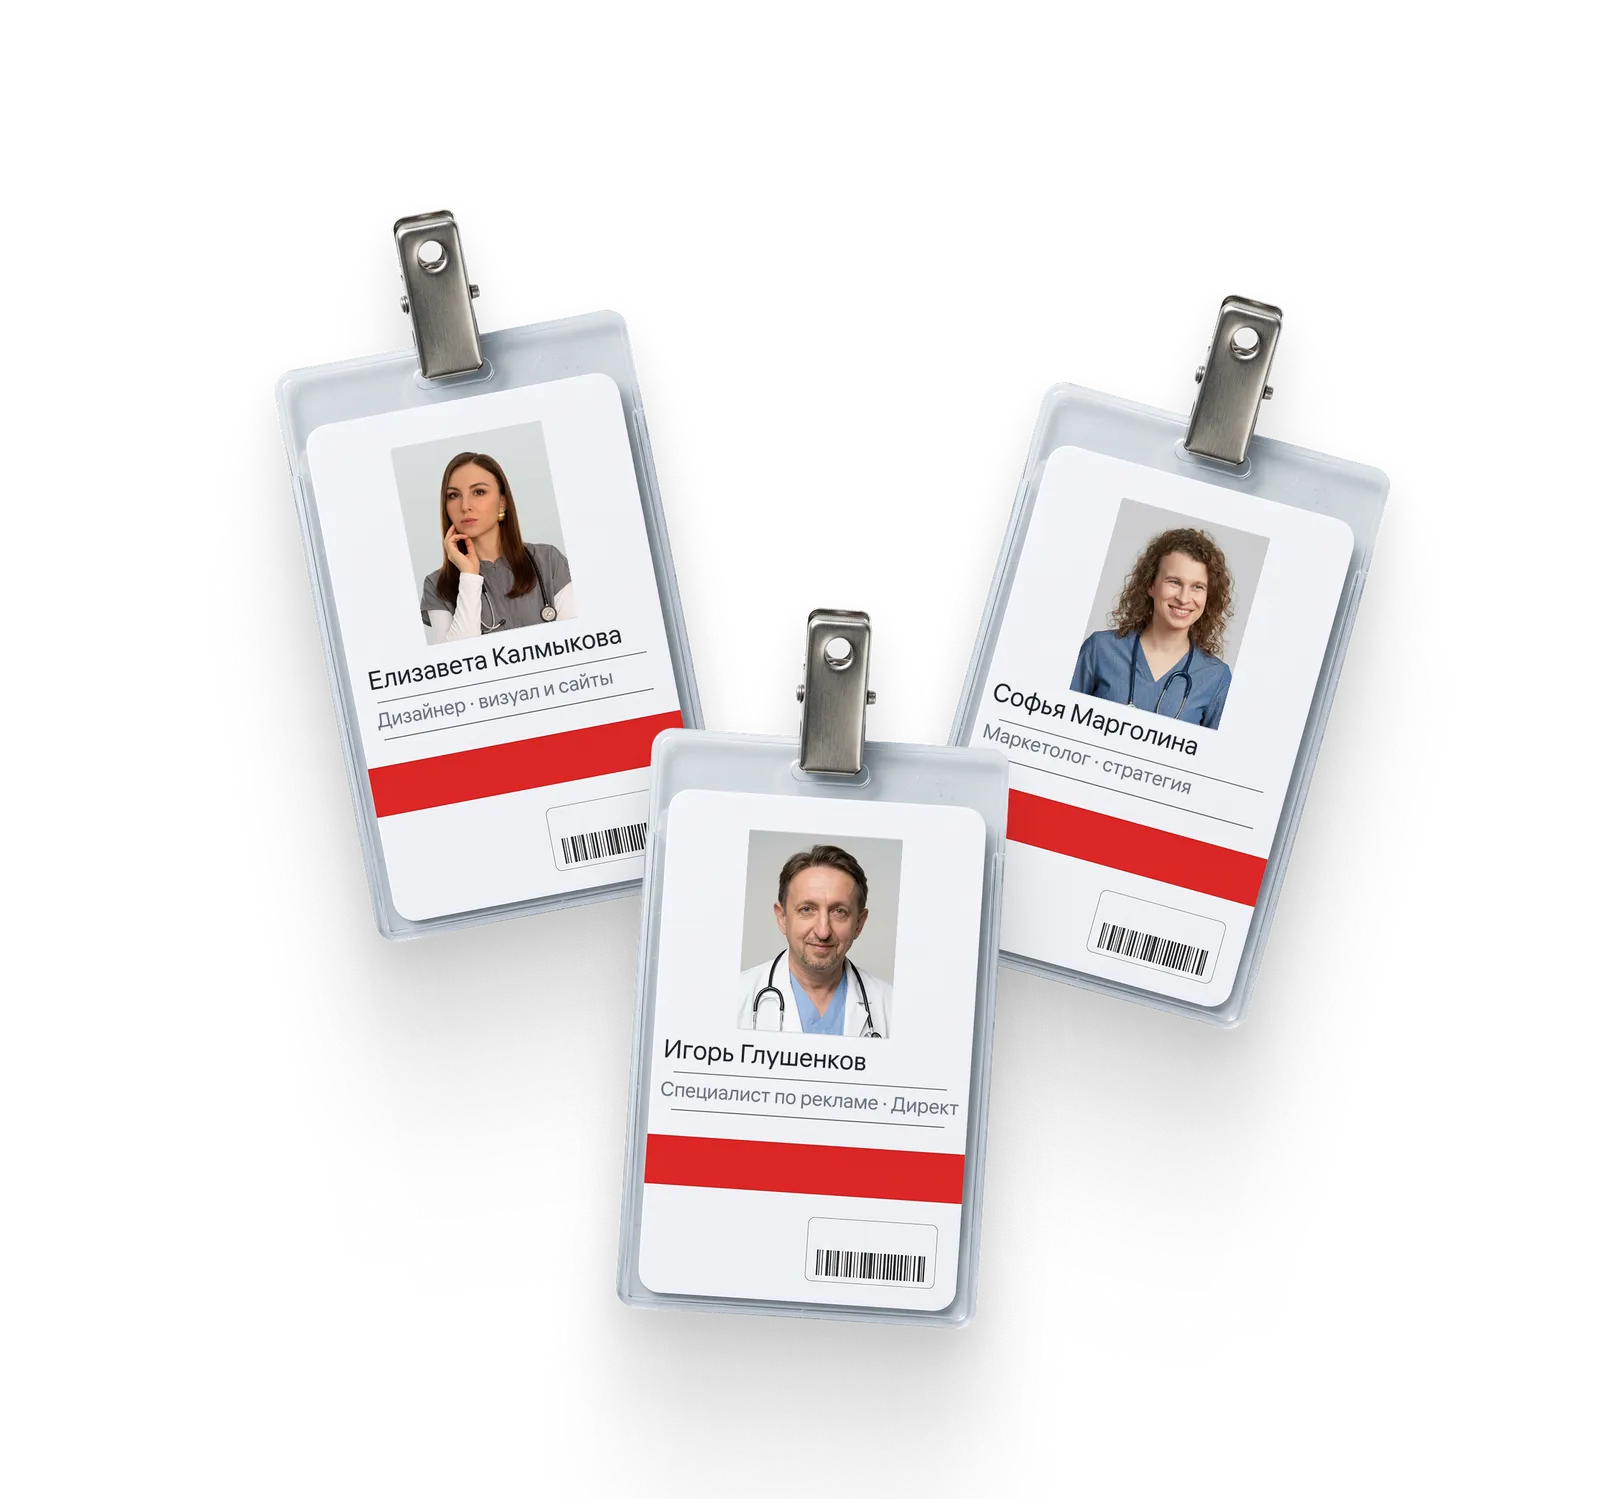
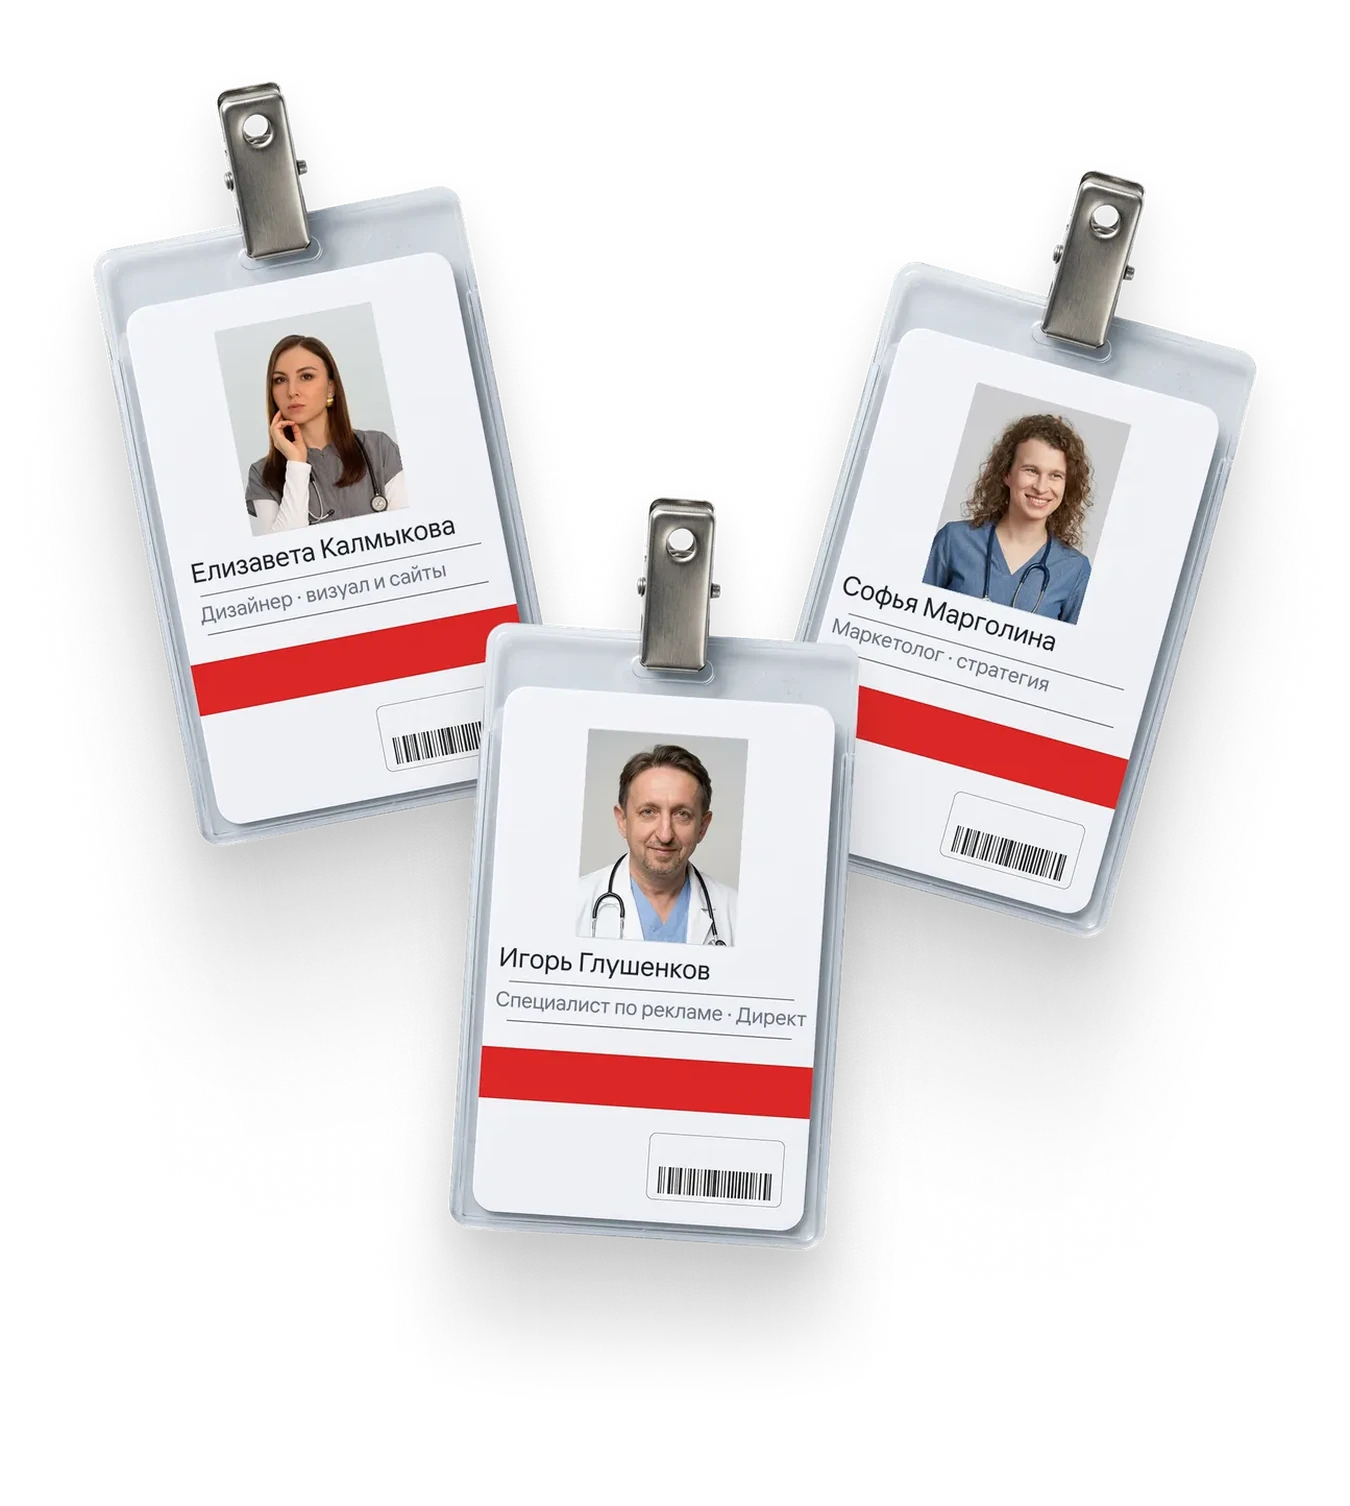
О нас: блок по макету — размер бейджей, тень без обрезки, адаптив
- team-pc.webp перевыпущен по рамке макета 900×1004 (x 940–1840, y 40–1044),
  без лишних прозрачных полей, тень плавно затухает до нуля
- team-mob.webp: убран жёсткий край тени снизу
- сетка 820:900 + зазор 40, вертикальные позиции как в макете (текст на y=233)
- планшет: убран конфликт overflow visible/hidden, картинка не режется
- мобайл: overflow-x:clip вместо hidden, удалены мёртвые правила .badge--*
- метка «/02 · О нас» — белая плашка, второй абзац тёмным, как в макете

Claude-Session: https://claude.ai/code/session_01Nx66HRpNGxERtiiEkZ98ma

Changed region(s): [[0.0622, 0.0307, 0.9333, 0.9513]]

diff --git a/styles.css b/styles.css
@@ -340,41 +340,27 @@ hr.rule{height:0;margin:0;border:0;border-top:1px solid var(--line);}
 /* ==========================================================================
    03. Кто мы
    ========================================================================== */
-/* Секция повторяет макет один в один (узел 192:38, 1920×1044):
-   текст 820 от левого поля, картинка 968 на позиции 901, то есть её
-   правый край уходит в поле страницы. Доли от содержимого 1760:
-   821/1760 = 46.65 % и 968/1760 = 55 % — в сумме больше ста, и это
-   нормально: картинка намеренно заходит за правое поле.
-   overflow здесь НЕ ставим: у файла снизу всего 37 прозрачных пикселей,
-   любая обрезка съедает тень. */
-.kto{display:grid;grid-template-columns:46.65% 1fr;gap:0;align-items:center;}
-#o-nas{padding-top:var(--section-y);padding-bottom:var(--section-y);}
-.kto__text{display:flex;flex-direction:column;align-items:flex-start;gap:28px;}
-.kto__text .h2{margin:4px 0 0;}
+/* Макет: узел 192:38, секция 1920×1044.
+   Текст: x 80–900 (820), y 233–804.
+   Картинка team-pc.webp вырезана из макета ровно по прямоугольнику
+   x 940–1840, y 40–1044 (900×1004) вместе с тенью и прозрачным полем,
+   поэтому её правый край совпадает с правым полем страницы и вылезать
+   ей никуда не нужно, а тень внутри файла затухает до нуля — резать нечего.
+   Колонки 820 : 900 с зазором 40 — пропорция держится на любой ширине.
+   Текст по центру картинки со сдвигом вверх на 23,5 px (233 вместо 256,5):
+   +47 px к нижнему отступу (5.7 % от колонки 820).
+   Отступы текста сверху/снизу = ¾ поля секции: на 1920 они ни на что
+   не влияют (текст по центру), а когда текст выше картинки (1024–1440),
+   не дают ему прилипнуть к соседним секциям. */
+#o-nas{padding-top:calc(var(--section-y) * .25);padding-bottom:0;}
+.kto{display:grid;grid-template-columns:minmax(0,820fr) minmax(0,900fr);column-gap:40px;align-items:center;}
+.kto__text{display:flex;flex-direction:column;align-items:flex-start;gap:28px;
+  margin-top:calc(var(--section-y) * .75);margin-bottom:calc(var(--section-y) * .75 + 5.7%);}
+.kto__text .h2{margin:0;}
 .promise{background:var(--ink);color:var(--white);border-radius:var(--r-20);padding:24px 28px;font-size:var(--t-big);line-height:1.32;}
 .honest{background:var(--surface-pale);border-radius:var(--r-20);padding:24px 28px;display:flex;flex-direction:column;gap:10px;}
-
-/* Углы наклона и сдвиги сняты из макета: 10,8° / −3,8° / −15,5°.
-   Тремя отдельными картинками, а не сведённой: у сведённой светлые
-   подложки бейджей склеиваются в один серый короб. */
-/* Бейджи приехали одной картинкой с готовыми тенями и прозрачностью —
-   три позиционированных слоя с поворотами больше не нужны. */
-/* Одно правило для всех декоративных картинок: задана ширина в пикселях,
-   высота считается сама, cover не используется. Файл команды обрезан по
-   содержимому, поэтому его ширина — это ширина самих бейджей с тенями. */
-/* В макете группа начинается на y=93, а текстовый блок на 233 — то есть
-   картинка выходит выше общего поля секции на 67. */
-/* В макете картинка начинается на y=93, а текст на 233 при поле секции 160 */
-/* Картинка живёт внутри своей колонки и никуда не вылезает: обрезать её
-   нечем и нечему. Поля секции обычные, воздух вокруг тени есть всегда. */
-.kto__stage{position:relative;width:100%;align-self:center;}
+.kto__stage{margin:0;}
 .kto__stage img{width:100%;height:auto;display:block;}
-.kto__stage img{width:100%;height:auto;}
-.kto__stage .badge{position:absolute;margin:0;}
-.kto__stage .badge img{width:100%;}
-.badge--el{left:0;top:0;width:40.6%;transform:rotate(10.8deg);z-index:1;}
-.badge--so{left:60.7%;top:-2.7%;width:39.3%;transform:rotate(-15.5deg);z-index:1;}
-.badge--ig{left:30.3%;top:31%;width:39.4%;transform:rotate(-3.8deg);z-index:2;}
 
 /* ==========================================================================
    04. Как устроен приём
@@ -732,8 +718,6 @@ body.is-locked{overflow:hidden;}
 
 /* планшет */
 @media (min-width:768px) and (max-width:1023px){
-  /* Тень у картинки команды лежит внутри файла, обрезать секцию нельзя */
-  #o-nas{overflow:visible;}
   :root{--gutter:32px;--section-y:96px;}
   .wrap{max-width:704px;}
   .h1,.h2{-webkit-text-stroke:0;}
@@ -762,16 +746,12 @@ body.is-locked{overflow:hidden;}
   .sheet .call{width:100%;margin-top:16px;}
   .symptoms__side>.note{order:5;width:100%;}
 
-  .kto{grid-template-columns:1fr;gap:40px;align-items:start;}
-  #o-nas{padding-top:var(--section-y);padding-bottom:var(--section-y);}
-  /* Композиция бейджей — мобильная (узел 359:4996): десктопная на этой
-     ширине сжимается в три марки размером с ноготь. */
-  .kto__stage{width:calc(100% + var(--gutter));margin-left:0;margin-right:calc(-1 * var(--gutter));aspect-ratio:auto;}
-  .kto__stage img{width:100%;height:auto;}
-  .badge--el{left:4.3%;top:17.1%;width:35.4%;}
-  .badge--ig{left:31%;top:17%;width:34.3%;}
-  .badge--so{left:70.7%;top:5.7%;width:36%;}
-  #o-nas{overflow:hidden;}
+  /* Кто мы: одна колонка, бейджи под текстом. Картинка та же, что на
+     десктопе, — у мобильной на этой ширине не хватает разрешения. */
+  .kto{grid-template-columns:1fr;gap:16px;align-items:start;}
+  .kto__text{margin:0;}
+  #o-nas{padding-top:var(--section-y);padding-bottom:calc(var(--section-y) * .25);}
+  .kto__stage{width:100%;max-width:640px;margin:0 auto;}
   /* Этапы: на этой ширине десктопные координаты номера и заголовка
      накладывались друг на друга. */
   .steps{grid-template-columns:1fr;gap:24px;}
@@ -923,22 +903,18 @@ body.is-locked{overflow:hidden;}
   #o-nas{padding-top:var(--section-y);padding-bottom:var(--section-y);}
   .kto{display:flex;flex-direction:column;align-items:flex-start;gap:20px;}
   .kto__text{display:contents;}
-  .kto__text>.caption{order:1;}
+  .kto__text>.pill{order:1;}
   .kto__text>.h2{order:2;width:100%;}
   .kto__stage{order:3;}
   .kto__text>.lead{order:4;width:100%;}
   .kto__text>p{order:5;width:100%;}
   .kto__text>.promise{order:6;width:100%;}
   .kto__text>.honest{order:7;width:100%;}
-  /* Повёрнутый бейдж вылезал за правый край на 3 px и давал горизонтальную
-     прокрутку. Сдвигаем внутрь, а не режем: тени у бейджей обрезать нельзя. */
-  /* Мобильная композиция бейджей своя (узел 359:4996): группа 460 в ширину
-     от −35, то есть выходит за оба края экрана и режется им. */
-  .kto__stage{width:117.9vw;margin-left:-14.1vw;aspect-ratio:585/433;}
-  .badge--el{left:4.3%;top:17.1%;width:35.4%;}
-  .badge--ig{left:31%;top:17%;width:34.3%;}
-  .badge--so{left:70.7%;top:5.7%;width:36%;}
-  #o-nas{overflow:hidden;}
+  /* Мобильная композиция (узел 359:4996): группа шире экрана и уходит
+     за оба края. Режем только по горизонтали — overflow-x:clip,
+     вертикаль и тени остаются целыми. */
+  .kto__stage{width:117.9vw;margin-left:-14.1vw;}
+  #o-nas{overflow-x:clip;}
   .promise,.honest{padding:20px;border-radius:var(--r-16);font-size:16px;}
 
 

diff --git a/index.html b/index.html
@@ -144,10 +144,10 @@
 <section class="section" id="o-nas">
   <div class="wrap kto">
     <div class="kto__text">
-      <span class="caption muted">/02 · О нас</span>
+      <span class="pill pill--white">/02 · О нас</span>
       <h2 class="h2">Кто мы и почему неотложка</h2>
       <p class="lead">Мы не просто маркетологи. Мы проджект-менеджеры и практики с бэкграундом в разных нишах — от крупных интернет-магазинов до сложных b2b-продаж.</p>
-      <p class="base muted">Мы управляли проектами в разных условиях и знаем, что бизнес не может ждать, когда речь идет о падении заявок и продаж. Поэтому мгновенно приходим на помощь.</p>
+      <p class="base">Мы управляли проектами в разных условиях и знаем, что бизнес не может ждать, когда речь идет о падении заявок и продаж. Поэтому мгновенно приходим на помощь.</p>
 
       <div class="promise">Уже на первой встрече показываем предварительный план «лечения»</div>
 
